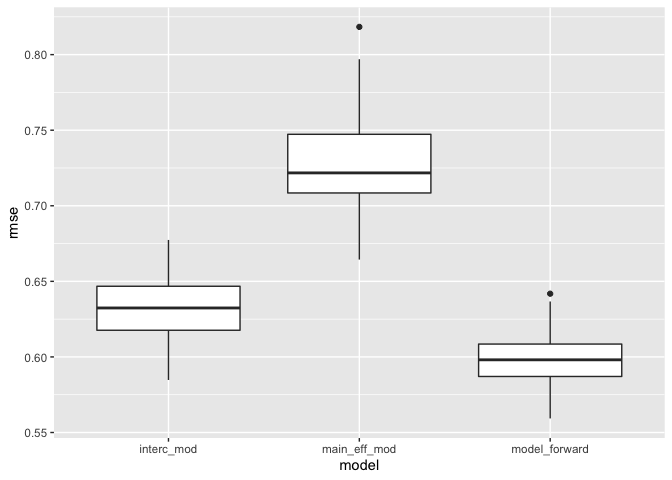
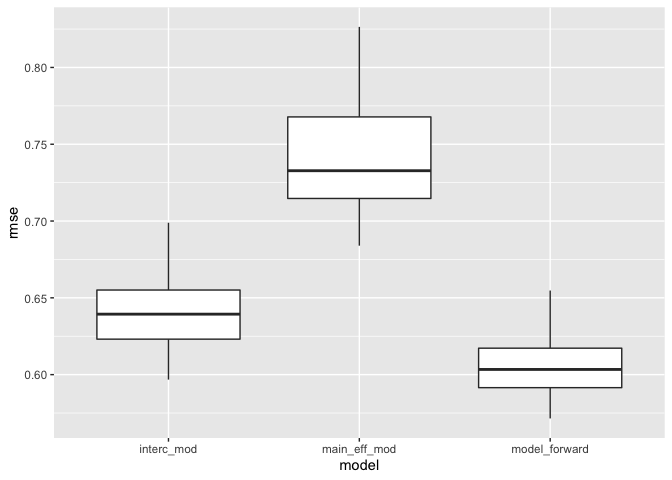
Final

diff --git a/p8105_hw6_yz4183.md b/p8105_hw6_yz4183.md
@@ -502,7 +502,7 @@ $\\hat{r^2}$ and log(*β̂*<sub>0</sub> \* *β̂*<sub>1</sub>)
 weather_bootstrap_results = 
   weather_df %>% 
   select(tmax, tmin) %>% 
-  bootstrap(n = 5000, id = "strap_number") %>%  #draw 10 samples with replacement have the same size as the filtered dataset
+  bootstrap(n = 5000, id = "strap_number") %>%
   mutate(
     models = map(.x = strap, ~lm(tmax ~ tmin, data = .x)),
     results_coeff = map(models, broom::tidy),
@@ -548,7 +548,7 @@ quantile(betas_df$log_beta, c(.025, 0.975))
 ```
 
     ##     2.5%    97.5% 
-    ## 1.964499 2.058011
+    ## 1.964222 2.058829
 
 The 95% confidence interal for log(*β̂*<sub>0</sub> \* *β̂*<sub>1</sub>)
 is (1.96, 2.05).
@@ -573,6 +573,6 @@ quantile(rsquare_df$r.squared, c(.025, 0.975))
 ```
 
     ##      2.5%     97.5% 
-    ## 0.8935259 0.9274892
+    ## 0.8939445 0.9279947
 
 The 95% confidence interal for $\\hat{r^2}$ is (0.89, 0.92).
